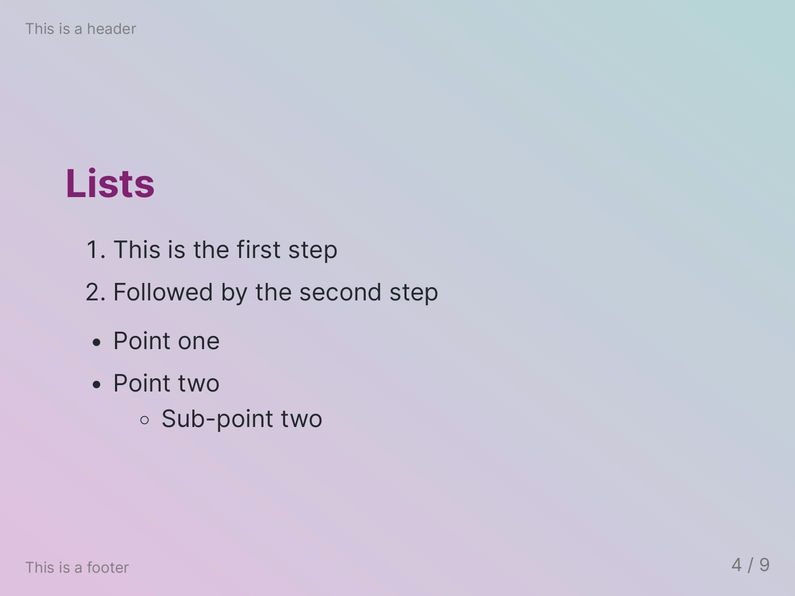
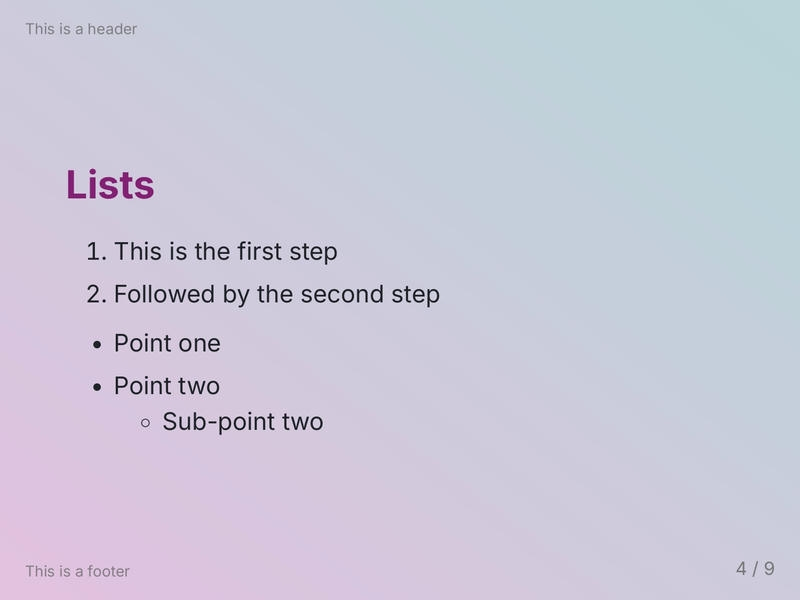
Lower compression gradient images; Quarto update

diff --git a/docs/index.html b/docs/index.html
@@ -2,7 +2,7 @@
 <html xmlns="http://www.w3.org/1999/xhtml" lang="en" xml:lang="en"><head>
 
 <meta charset="utf-8">
-<meta name="generator" content="quarto-1.8.26">
+<meta name="generator" content="quarto-1.8.27">
 
 <meta name="viewport" content="width=device-width, initial-scale=1.0, user-scalable=yes">
 
@@ -36,7 +36,7 @@ ul.task-list li input[type="checkbox"] {
 <script src="site_libs/quarto-html/tippy.umd.min.js"></script>
 <script src="site_libs/quarto-html/anchor.min.js"></script>
 <link href="site_libs/quarto-html/tippy.css" rel="stylesheet">
-<link href="site_libs/quarto-html/quarto-syntax-highlighting-2a12e044340f79bad0d75c7561fedc86.css" rel="stylesheet" id="quarto-text-highlighting-styles">
+<link href="site_libs/quarto-html/quarto-syntax-highlighting-b1010ed3cd212492f61910bf2317df72.css" rel="stylesheet" id="quarto-text-highlighting-styles">
 <script src="site_libs/bootstrap/bootstrap.min.js"></script>
 <link href="site_libs/bootstrap/bootstrap-icons.css" rel="stylesheet">
 <link href="site_libs/bootstrap/bootstrap-1d4f84655f446305ac42a8f1abcf7405.min.css" rel="stylesheet" append-hash="true" id="quarto-bootstrap" data-mode="light">
@@ -216,7 +216,7 @@ window.Quarto = {
   </div>
 </div>
 <div class="list grid quarto-listing-cols-3">
-<div class="g-col-1" data-index="0" data-categories="TGlnaHQ=" data-listing-date-sort="1653343200000" data-listing-file-modified-sort="1730375848935" data-listing-date-modified-sort="NaN" data-listing-reading-time-sort="1" data-listing-word-count-sort="119">
+<div class="g-col-1" data-index="0" data-categories="TGlnaHQ=" data-listing-date-sort="1653343200000" data-listing-file-modified-sort="1772295280685" data-listing-date-modified-sort="NaN" data-listing-reading-time-sort="1" data-listing-word-count-sort="119">
 <a href="./theme/academic.html" class="quarto-grid-link">
 <div class="quarto-grid-item card h-100 card-left">
 <p class="card-img-top">
@@ -237,7 +237,7 @@ May 24, 2022
 </div>
 </div></a>
 </div>
-<div class="g-col-1" data-index="1" data-categories="TGlnaHQ=" data-listing-date-sort="1648249200000" data-listing-file-modified-sort="1768772410095" data-listing-date-modified-sort="NaN" data-listing-reading-time-sort="1" data-listing-word-count-sort="192">
+<div class="g-col-1" data-index="1" data-categories="TGlnaHQ=" data-listing-date-sort="1648249200000" data-listing-file-modified-sort="1772295280689" data-listing-date-modified-sort="NaN" data-listing-reading-time-sort="1" data-listing-word-count-sort="192">
 <a href="./theme/beam.html" class="quarto-grid-link">
 <div class="quarto-grid-item card h-100 card-left">
 <p class="card-img-top">
@@ -258,7 +258,7 @@ Mar 26, 2022
 </div>
 </div></a>
 </div>
-<div class="g-col-1" data-index="2" data-categories="TGlnaHQ=" data-listing-date-sort="1648249200000" data-listing-file-modified-sort="1730375848935" data-listing-date-modified-sort="NaN" data-listing-reading-time-sort="1" data-listing-word-count-sort="108">
+<div class="g-col-1" data-index="2" data-categories="TGlnaHQ=" data-listing-date-sort="1648249200000" data-listing-file-modified-sort="1772295280693" data-listing-date-modified-sort="NaN" data-listing-reading-time-sort="1" data-listing-word-count-sort="108">
 <a href="./theme/border.html" class="quarto-grid-link">
 <div class="quarto-grid-item card h-100 card-left">
 <p class="card-img-top">
@@ -279,7 +279,7 @@ Mar 26, 2022
 </div>
 </div></a>
 </div>
-<div class="g-col-1" data-index="3" data-categories="TGlnaHQlMkNEYXJr" data-listing-date-sort="1528581600000" data-listing-file-modified-sort="1730375848950" data-listing-date-modified-sort="NaN" data-listing-reading-time-sort="1" data-listing-word-count-sort="66">
+<div class="g-col-1" data-index="3" data-categories="TGlnaHQlMkNEYXJr" data-listing-date-sort="1528581600000" data-listing-file-modified-sort="1772295280695" data-listing-date-modified-sort="NaN" data-listing-reading-time-sort="1" data-listing-word-count-sort="66">
 <a href="./theme/gaia.html" class="quarto-grid-link">
 <div class="quarto-grid-item card h-100 card-left">
 <p class="card-img-top">
@@ -300,7 +300,7 @@ Jun 10, 2018
 </div>
 </div></a>
 </div>
-<div class="g-col-1" data-index="4" data-categories="TGlnaHQ=" data-listing-date-sort="1648249200000" data-listing-file-modified-sort="1730375848957" data-listing-date-modified-sort="NaN" data-listing-reading-time-sort="1" data-listing-word-count-sort="119">
+<div class="g-col-1" data-index="4" data-categories="TGlnaHQ=" data-listing-date-sort="1648249200000" data-listing-file-modified-sort="1772295280700" data-listing-date-modified-sort="NaN" data-listing-reading-time-sort="1" data-listing-word-count-sort="119">
 <a href="./theme/gradient.html" class="quarto-grid-link">
 <div class="quarto-grid-item card h-100 card-left">
 <p class="card-img-top">
@@ -321,7 +321,7 @@ Mar 26, 2022
 </div>
 </div></a>
 </div>
-<div class="g-col-1" data-index="5" data-categories="TGlnaHQ=" data-listing-date-sort="1683928800000" data-listing-file-modified-sort="1730375848957" data-listing-date-modified-sort="NaN" data-listing-reading-time-sort="1" data-listing-word-count-sort="115">
+<div class="g-col-1" data-index="5" data-categories="TGlnaHQ=" data-listing-date-sort="1683928800000" data-listing-file-modified-sort="1772295280700" data-listing-date-modified-sort="NaN" data-listing-reading-time-sort="1" data-listing-word-count-sort="115">
 <a href="./theme/graph_paper.html" class="quarto-grid-link">
 <div class="quarto-grid-item card h-100 card-left">
 <p class="card-img-top">
@@ -342,7 +342,7 @@ May 13, 2023
 </div>
 </div></a>
 </div>
-<div class="g-col-1" data-index="6" data-categories="RGFyaw==" data-listing-date-sort="1671577200000" data-listing-file-modified-sort="1768772382660" data-listing-date-modified-sort="NaN" data-listing-reading-time-sort="1" data-listing-word-count-sort="47">
+<div class="g-col-1" data-index="6" data-categories="RGFyaw==" data-listing-date-sort="1671577200000" data-listing-file-modified-sort="1772295280716" data-listing-date-modified-sort="NaN" data-listing-reading-time-sort="1" data-listing-word-count-sort="47">
 <a href="./theme/rose-pine.html" class="quarto-grid-link">
 <div class="quarto-grid-item card h-100 card-left">
 <p class="card-img-top">
@@ -363,7 +363,7 @@ Dec 21, 2022
 </div>
 </div></a>
 </div>
-<div class="g-col-1" data-index="7" data-categories="TGlnaHQ=" data-listing-date-sort="1671577200000" data-listing-file-modified-sort="1768772341909" data-listing-date-modified-sort="NaN" data-listing-reading-time-sort="1" data-listing-word-count-sort="51">
+<div class="g-col-1" data-index="7" data-categories="TGlnaHQ=" data-listing-date-sort="1671577200000" data-listing-file-modified-sort="1772295280700" data-listing-date-modified-sort="NaN" data-listing-reading-time-sort="1" data-listing-word-count-sort="51">
 <a href="./theme/rose-pine-dawn.html" class="quarto-grid-link">
 <div class="quarto-grid-item card h-100 card-left">
 <p class="card-img-top">
@@ -384,7 +384,7 @@ Dec 21, 2022
 </div>
 </div></a>
 </div>
-<div class="g-col-1" data-index="8" data-categories="RGFyaw==" data-listing-date-sort="1671577200000" data-listing-file-modified-sort="1768772356612" data-listing-date-modified-sort="NaN" data-listing-reading-time-sort="1" data-listing-word-count-sort="51">
+<div class="g-col-1" data-index="8" data-categories="RGFyaw==" data-listing-date-sort="1671577200000" data-listing-file-modified-sort="1772295280700" data-listing-date-modified-sort="NaN" data-listing-reading-time-sort="1" data-listing-word-count-sort="51">
 <a href="./theme/rose-pine-moon.html" class="quarto-grid-link">
 <div class="quarto-grid-item card h-100 card-left">
 <p class="card-img-top">
@@ -405,7 +405,7 @@ Dec 21, 2022
 </div>
 </div></a>
 </div>
-<div class="g-col-1" data-index="9" data-categories="TGlnaHQlMkNEYXJr" data-listing-date-sort="1528322400000" data-listing-file-modified-sort="1730375848988" data-listing-date-modified-sort="NaN" data-listing-reading-time-sort="1" data-listing-word-count-sort="62">
+<div class="g-col-1" data-index="9" data-categories="TGlnaHQlMkNEYXJr" data-listing-date-sort="1528322400000" data-listing-file-modified-sort="1772295280716" data-listing-date-modified-sort="NaN" data-listing-reading-time-sort="1" data-listing-word-count-sort="62">
 <a href="./theme/uncover.html" class="quarto-grid-link">
 <div class="quarto-grid-item card h-100 card-left">
 <p class="card-img-top">

diff --git a/docs/404.html b/docs/404.html
@@ -2,7 +2,7 @@
 <html xmlns="http://www.w3.org/1999/xhtml" lang="en" xml:lang="en"><head>
 
 <meta charset="utf-8">
-<meta name="generator" content="quarto-1.8.26">
+<meta name="generator" content="quarto-1.8.27">
 
 <meta name="viewport" content="width=device-width, initial-scale=1.0, user-scalable=yes">
 
@@ -34,7 +34,7 @@ ul.task-list li input[type="checkbox"] {
 <script src="/marp-community-themes/site_libs/quarto-html/tippy.umd.min.js"></script>
 <script src="/marp-community-themes/site_libs/quarto-html/anchor.min.js"></script>
 <link href="/marp-community-themes/site_libs/quarto-html/tippy.css" rel="stylesheet">
-<link href="/marp-community-themes/site_libs/quarto-html/quarto-syntax-highlighting-2a12e044340f79bad0d75c7561fedc86.css" rel="stylesheet" id="quarto-text-highlighting-styles">
+<link href="/marp-community-themes/site_libs/quarto-html/quarto-syntax-highlighting-b1010ed3cd212492f61910bf2317df72.css" rel="stylesheet" id="quarto-text-highlighting-styles">
 <script src="/marp-community-themes/site_libs/bootstrap/bootstrap.min.js"></script>
 <link href="/marp-community-themes/site_libs/bootstrap/bootstrap-icons.css" rel="stylesheet">
 <link href="/marp-community-themes/site_libs/bootstrap/bootstrap-1d4f84655f446305ac42a8f1abcf7405.min.css" rel="stylesheet" append-hash="true" id="quarto-bootstrap" data-mode="light">

diff --git a/docs/theme/academic.html b/docs/theme/academic.html
@@ -2,7 +2,7 @@
 <html xmlns="http://www.w3.org/1999/xhtml" lang="en" xml:lang="en"><head>
 
 <meta charset="utf-8">
-<meta name="generator" content="quarto-1.8.26">
+<meta name="generator" content="quarto-1.8.27">
 
 <meta name="viewport" content="width=device-width, initial-scale=1.0, user-scalable=yes">
 
@@ -35,7 +35,7 @@ ul.task-list li input[type="checkbox"] {
 <script src="../site_libs/quarto-html/popper.min.js"></script>
 <script src="../site_libs/quarto-html/tippy.umd.min.js"></script>
 <link href="../site_libs/quarto-html/tippy.css" rel="stylesheet">
-<link href="../site_libs/quarto-html/quarto-syntax-highlighting-2a12e044340f79bad0d75c7561fedc86.css" rel="stylesheet" id="quarto-text-highlighting-styles">
+<link href="../site_libs/quarto-html/quarto-syntax-highlighting-b1010ed3cd212492f61910bf2317df72.css" rel="stylesheet" id="quarto-text-highlighting-styles">
 <script src="../site_libs/bootstrap/bootstrap.min.js"></script>
 <link href="../site_libs/bootstrap/bootstrap-icons.css" rel="stylesheet">
 <link href="../site_libs/bootstrap/bootstrap-1d4f84655f446305ac42a8f1abcf7405.min.css" rel="stylesheet" append-hash="true" id="quarto-bootstrap" data-mode="light">

diff --git a/docs/theme/beam.html b/docs/theme/beam.html
@@ -2,7 +2,7 @@
 <html xmlns="http://www.w3.org/1999/xhtml" lang="en" xml:lang="en"><head>
 
 <meta charset="utf-8">
-<meta name="generator" content="quarto-1.8.26">
+<meta name="generator" content="quarto-1.8.27">
 
 <meta name="viewport" content="width=device-width, initial-scale=1.0, user-scalable=yes">
 
@@ -35,7 +35,7 @@ ul.task-list li input[type="checkbox"] {
 <script src="../site_libs/quarto-html/popper.min.js"></script>
 <script src="../site_libs/quarto-html/tippy.umd.min.js"></script>
 <link href="../site_libs/quarto-html/tippy.css" rel="stylesheet">
-<link href="../site_libs/quarto-html/quarto-syntax-highlighting-2a12e044340f79bad0d75c7561fedc86.css" rel="stylesheet" id="quarto-text-highlighting-styles">
+<link href="../site_libs/quarto-html/quarto-syntax-highlighting-b1010ed3cd212492f61910bf2317df72.css" rel="stylesheet" id="quarto-text-highlighting-styles">
 <script src="../site_libs/bootstrap/bootstrap.min.js"></script>
 <link href="../site_libs/bootstrap/bootstrap-icons.css" rel="stylesheet">
 <link href="../site_libs/bootstrap/bootstrap-1d4f84655f446305ac42a8f1abcf7405.min.css" rel="stylesheet" append-hash="true" id="quarto-bootstrap" data-mode="light">

diff --git a/docs/theme/border.html b/docs/theme/border.html
@@ -2,7 +2,7 @@
 <html xmlns="http://www.w3.org/1999/xhtml" lang="en" xml:lang="en"><head>
 
 <meta charset="utf-8">
-<meta name="generator" content="quarto-1.8.26">
+<meta name="generator" content="quarto-1.8.27">
 
 <meta name="viewport" content="width=device-width, initial-scale=1.0, user-scalable=yes">
 
@@ -35,7 +35,7 @@ ul.task-list li input[type="checkbox"] {
 <script src="../site_libs/quarto-html/popper.min.js"></script>
 <script src="../site_libs/quarto-html/tippy.umd.min.js"></script>
 <link href="../site_libs/quarto-html/tippy.css" rel="stylesheet">
-<link href="../site_libs/quarto-html/quarto-syntax-highlighting-2a12e044340f79bad0d75c7561fedc86.css" rel="stylesheet" id="quarto-text-highlighting-styles">
+<link href="../site_libs/quarto-html/quarto-syntax-highlighting-b1010ed3cd212492f61910bf2317df72.css" rel="stylesheet" id="quarto-text-highlighting-styles">
 <script src="../site_libs/bootstrap/bootstrap.min.js"></script>
 <link href="../site_libs/bootstrap/bootstrap-icons.css" rel="stylesheet">
 <link href="../site_libs/bootstrap/bootstrap-1d4f84655f446305ac42a8f1abcf7405.min.css" rel="stylesheet" append-hash="true" id="quarto-bootstrap" data-mode="light">

diff --git a/docs/theme/gaia.html b/docs/theme/gaia.html
@@ -2,7 +2,7 @@
 <html xmlns="http://www.w3.org/1999/xhtml" lang="en" xml:lang="en"><head>
 
 <meta charset="utf-8">
-<meta name="generator" content="quarto-1.8.26">
+<meta name="generator" content="quarto-1.8.27">
 
 <meta name="viewport" content="width=device-width, initial-scale=1.0, user-scalable=yes">
 
@@ -35,7 +35,7 @@ ul.task-list li input[type="checkbox"] {
 <script src="../site_libs/quarto-html/popper.min.js"></script>
 <script src="../site_libs/quarto-html/tippy.umd.min.js"></script>
 <link href="../site_libs/quarto-html/tippy.css" rel="stylesheet">
-<link href="../site_libs/quarto-html/quarto-syntax-highlighting-2a12e044340f79bad0d75c7561fedc86.css" rel="stylesheet" id="quarto-text-highlighting-styles">
+<link href="../site_libs/quarto-html/quarto-syntax-highlighting-b1010ed3cd212492f61910bf2317df72.css" rel="stylesheet" id="quarto-text-highlighting-styles">
 <script src="../site_libs/bootstrap/bootstrap.min.js"></script>
 <link href="../site_libs/bootstrap/bootstrap-icons.css" rel="stylesheet">
 <link href="../site_libs/bootstrap/bootstrap-1d4f84655f446305ac42a8f1abcf7405.min.css" rel="stylesheet" append-hash="true" id="quarto-bootstrap" data-mode="light">

diff --git a/docs/theme/gradient.html b/docs/theme/gradient.html
@@ -2,7 +2,7 @@
 <html xmlns="http://www.w3.org/1999/xhtml" lang="en" xml:lang="en"><head>
 
 <meta charset="utf-8">
-<meta name="generator" content="quarto-1.8.26">
+<meta name="generator" content="quarto-1.8.27">
 
 <meta name="viewport" content="width=device-width, initial-scale=1.0, user-scalable=yes">
 
@@ -35,7 +35,7 @@ ul.task-list li input[type="checkbox"] {
 <script src="../site_libs/quarto-html/popper.min.js"></script>
 <script src="../site_libs/quarto-html/tippy.umd.min.js"></script>
 <link href="../site_libs/quarto-html/tippy.css" rel="stylesheet">
-<link href="../site_libs/quarto-html/quarto-syntax-highlighting-2a12e044340f79bad0d75c7561fedc86.css" rel="stylesheet" id="quarto-text-highlighting-styles">
+<link href="../site_libs/quarto-html/quarto-syntax-highlighting-b1010ed3cd212492f61910bf2317df72.css" rel="stylesheet" id="quarto-text-highlighting-styles">
 <script src="../site_libs/bootstrap/bootstrap.min.js"></script>
 <link href="../site_libs/bootstrap/bootstrap-icons.css" rel="stylesheet">
 <link href="../site_libs/bootstrap/bootstrap-1d4f84655f446305ac42a8f1abcf7405.min.css" rel="stylesheet" append-hash="true" id="quarto-bootstrap" data-mode="light">

diff --git a/docs/theme/graph_paper.html b/docs/theme/graph_paper.html
@@ -2,7 +2,7 @@
 <html xmlns="http://www.w3.org/1999/xhtml" lang="en" xml:lang="en"><head>
 
 <meta charset="utf-8">
-<meta name="generator" content="quarto-1.8.26">
+<meta name="generator" content="quarto-1.8.27">
 
 <meta name="viewport" content="width=device-width, initial-scale=1.0, user-scalable=yes">
 
@@ -35,7 +35,7 @@ ul.task-list li input[type="checkbox"] {
 <script src="../site_libs/quarto-html/popper.min.js"></script>
 <script src="../site_libs/quarto-html/tippy.umd.min.js"></script>
 <link href="../site_libs/quarto-html/tippy.css" rel="stylesheet">
-<link href="../site_libs/quarto-html/quarto-syntax-highlighting-2a12e044340f79bad0d75c7561fedc86.css" rel="stylesheet" id="quarto-text-highlighting-styles">
+<link href="../site_libs/quarto-html/quarto-syntax-highlighting-b1010ed3cd212492f61910bf2317df72.css" rel="stylesheet" id="quarto-text-highlighting-styles">
 <script src="../site_libs/bootstrap/bootstrap.min.js"></script>
 <link href="../site_libs/bootstrap/bootstrap-icons.css" rel="stylesheet">
 <link href="../site_libs/bootstrap/bootstrap-1d4f84655f446305ac42a8f1abcf7405.min.css" rel="stylesheet" append-hash="true" id="quarto-bootstrap" data-mode="light">

diff --git a/docs/theme/rose-pine-dawn.html b/docs/theme/rose-pine-dawn.html
@@ -2,7 +2,7 @@
 <html xmlns="http://www.w3.org/1999/xhtml" lang="en" xml:lang="en"><head>
 
 <meta charset="utf-8">
-<meta name="generator" content="quarto-1.8.26">
+<meta name="generator" content="quarto-1.8.27">
 
 <meta name="viewport" content="width=device-width, initial-scale=1.0, user-scalable=yes">
 
@@ -35,7 +35,7 @@ ul.task-list li input[type="checkbox"] {
 <script src="../site_libs/quarto-html/popper.min.js"></script>
 <script src="../site_libs/quarto-html/tippy.umd.min.js"></script>
 <link href="../site_libs/quarto-html/tippy.css" rel="stylesheet">
-<link href="../site_libs/quarto-html/quarto-syntax-highlighting-2a12e044340f79bad0d75c7561fedc86.css" rel="stylesheet" id="quarto-text-highlighting-styles">
+<link href="../site_libs/quarto-html/quarto-syntax-highlighting-b1010ed3cd212492f61910bf2317df72.css" rel="stylesheet" id="quarto-text-highlighting-styles">
 <script src="../site_libs/bootstrap/bootstrap.min.js"></script>
 <link href="../site_libs/bootstrap/bootstrap-icons.css" rel="stylesheet">
 <link href="../site_libs/bootstrap/bootstrap-1d4f84655f446305ac42a8f1abcf7405.min.css" rel="stylesheet" append-hash="true" id="quarto-bootstrap" data-mode="light">

diff --git a/docs/theme/rose-pine-moon.html b/docs/theme/rose-pine-moon.html
@@ -2,7 +2,7 @@
 <html xmlns="http://www.w3.org/1999/xhtml" lang="en" xml:lang="en"><head>
 
 <meta charset="utf-8">
-<meta name="generator" content="quarto-1.8.26">
+<meta name="generator" content="quarto-1.8.27">
 
 <meta name="viewport" content="width=device-width, initial-scale=1.0, user-scalable=yes">
 
@@ -35,7 +35,7 @@ ul.task-list li input[type="checkbox"] {
 <script src="../site_libs/quarto-html/popper.min.js"></script>
 <script src="../site_libs/quarto-html/tippy.umd.min.js"></script>
 <link href="../site_libs/quarto-html/tippy.css" rel="stylesheet">
-<link href="../site_libs/quarto-html/quarto-syntax-highlighting-2a12e044340f79bad0d75c7561fedc86.css" rel="stylesheet" id="quarto-text-highlighting-styles">
+<link href="../site_libs/quarto-html/quarto-syntax-highlighting-b1010ed3cd212492f61910bf2317df72.css" rel="stylesheet" id="quarto-text-highlighting-styles">
 <script src="../site_libs/bootstrap/bootstrap.min.js"></script>
 <link href="../site_libs/bootstrap/bootstrap-icons.css" rel="stylesheet">
 <link href="../site_libs/bootstrap/bootstrap-1d4f84655f446305ac42a8f1abcf7405.min.css" rel="stylesheet" append-hash="true" id="quarto-bootstrap" data-mode="light">

diff --git a/docs/theme/rose-pine.html b/docs/theme/rose-pine.html
@@ -2,7 +2,7 @@
 <html xmlns="http://www.w3.org/1999/xhtml" lang="en" xml:lang="en"><head>
 
 <meta charset="utf-8">
-<meta name="generator" content="quarto-1.8.26">
+<meta name="generator" content="quarto-1.8.27">
 
 <meta name="viewport" content="width=device-width, initial-scale=1.0, user-scalable=yes">
 
@@ -35,7 +35,7 @@ ul.task-list li input[type="checkbox"] {
 <script src="../site_libs/quarto-html/popper.min.js"></script>
 <script src="../site_libs/quarto-html/tippy.umd.min.js"></script>
 <link href="../site_libs/quarto-html/tippy.css" rel="stylesheet">
-<link href="../site_libs/quarto-html/quarto-syntax-highlighting-2a12e044340f79bad0d75c7561fedc86.css" rel="stylesheet" id="quarto-text-highlighting-styles">
+<link href="../site_libs/quarto-html/quarto-syntax-highlighting-b1010ed3cd212492f61910bf2317df72.css" rel="stylesheet" id="quarto-text-highlighting-styles">
 <script src="../site_libs/bootstrap/bootstrap.min.js"></script>
 <link href="../site_libs/bootstrap/bootstrap-icons.css" rel="stylesheet">
 <link href="../site_libs/bootstrap/bootstrap-1d4f84655f446305ac42a8f1abcf7405.min.css" rel="stylesheet" append-hash="true" id="quarto-bootstrap" data-mode="light">

diff --git a/docs/theme/uncover.html b/docs/theme/uncover.html
@@ -2,7 +2,7 @@
 <html xmlns="http://www.w3.org/1999/xhtml" lang="en" xml:lang="en"><head>
 
 <meta charset="utf-8">
-<meta name="generator" content="quarto-1.8.26">
+<meta name="generator" content="quarto-1.8.27">
 
 <meta name="viewport" content="width=device-width, initial-scale=1.0, user-scalable=yes">
 
@@ -35,7 +35,7 @@ ul.task-list li input[type="checkbox"] {
 <script src="../site_libs/quarto-html/popper.min.js"></script>
 <script src="../site_libs/quarto-html/tippy.umd.min.js"></script>
 <link href="../site_libs/quarto-html/tippy.css" rel="stylesheet">
-<link href="../site_libs/quarto-html/quarto-syntax-highlighting-2a12e044340f79bad0d75c7561fedc86.css" rel="stylesheet" id="quarto-text-highlighting-styles">
+<link href="../site_libs/quarto-html/quarto-syntax-highlighting-b1010ed3cd212492f61910bf2317df72.css" rel="stylesheet" id="quarto-text-highlighting-styles">
 <script src="../site_libs/bootstrap/bootstrap.min.js"></script>
 <link href="../site_libs/bootstrap/bootstrap-icons.css" rel="stylesheet">
 <link href="../site_libs/bootstrap/bootstrap-1d4f84655f446305ac42a8f1abcf7405.min.css" rel="stylesheet" append-hash="true" id="quarto-bootstrap" data-mode="light">
